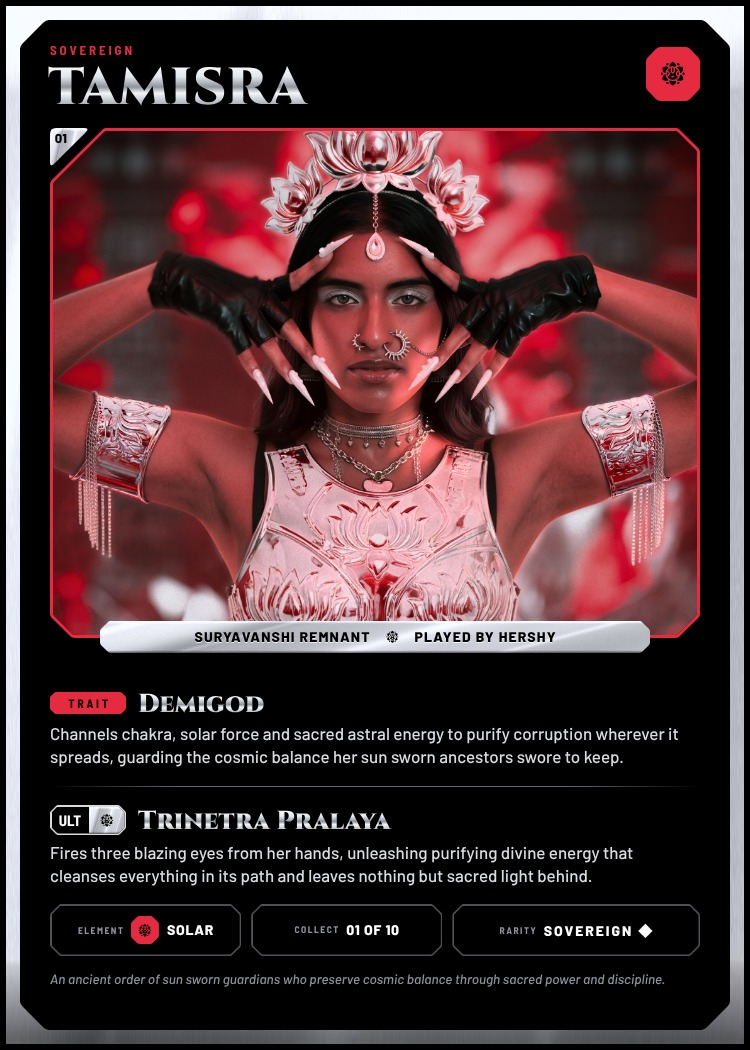
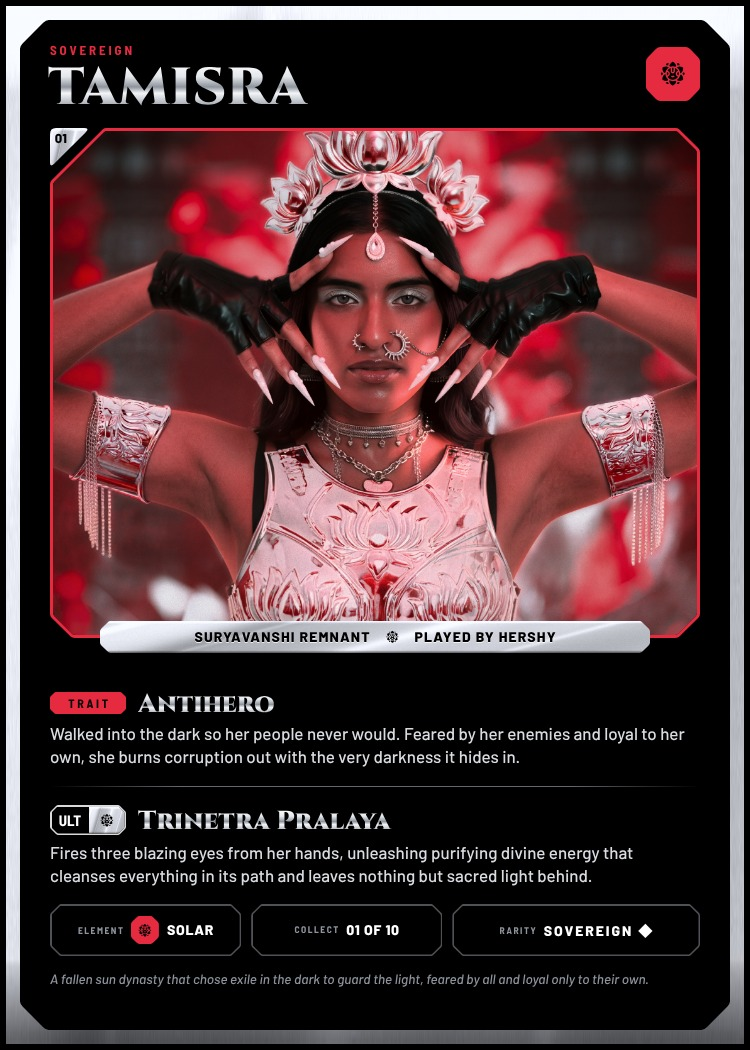
Tamisra: antihero lore, new card and spread images
Claude-Session: https://claude.ai/code/session_01XqBoTDZG36PsB1FtNjsWYS

Changed region(s): [[0.0613, 0.64, 0.92, 0.7314], [0.092, 0.9143, 0.8893, 0.9448]]

diff --git a/01/index.html b/01/index.html
@@ -27,7 +27,7 @@
   </div>
   <div style="position: absolute; left: 30px; bottom: 46px; width: 268px; display: flex; flex-direction: column; gap: 12px">
     <h1 style="margin: 0; font-family: 'Cinzel', serif; font-weight: 900; font-size: 34px; line-height: 1; letter-spacing: 0.02em; text-transform: uppercase; filter: drop-shadow(0 3px 10px rgba(0,0,0,0.9)); background: linear-gradient(180deg, #FFFFFF 0%, #E4E7EB 28%, #8E949D 48%, #F3F5F7 60%, #A9AEB6 82%, #FFFFFF 100%); -webkit-background-clip: text; background-clip: text; color: transparent">Tamisra</h1>
-    <p style="margin: 0; font-family: 'Barlow', sans-serif; font-weight: 700; font-size: 11px; line-height: 14px; color: #FFFFFF; text-shadow: 0 0 3px #000, 0 0 8px rgba(0,0,0,0.95), 0 1px 2px #000, 0 0 16px rgba(0,0,0,0.7)"><span style="background: url(assets/plate-h.jpg) center / 100% 100% no-repeat; color: #000000; font-weight: 800; text-shadow: 0 0.6px 0 rgba(255,255,255,0.75); -webkit-font-smoothing: antialiased; text-rendering: geometricPrecision; display: inline-block; line-height: 1.3; clip-path: polygon(0.00px 3.90px, 0.04px 3.47px, 0.16px 3.07px, 0.36px 2.70px, 0.64px 2.36px, 2.36px 0.64px, 2.70px 0.36px, 3.07px 0.16px, 3.47px 0.04px, 3.90px 0.00px, calc(100% - 3.90px) 0.00px, calc(100% - 3.47px) 0.04px, calc(100% - 3.07px) 0.16px, calc(100% - 2.70px) 0.36px, calc(100% - 2.36px) 0.64px, calc(100% - 0.64px) 2.36px, calc(100% - 0.36px) 2.70px, calc(100% - 0.16px) 3.07px, calc(100% - 0.04px) 3.47px, calc(100% - 0.00px) 3.90px, calc(100% - 0.00px) calc(100% - 3.90px), calc(100% - 0.04px) calc(100% - 3.47px), calc(100% - 0.16px) calc(100% - 3.07px), calc(100% - 0.36px) calc(100% - 2.70px), calc(100% - 0.64px) calc(100% - 2.36px), calc(100% - 2.36px) calc(100% - 0.64px), calc(100% - 2.70px) calc(100% - 0.36px), calc(100% - 3.07px) calc(100% - 0.16px), calc(100% - 3.47px) calc(100% - 0.04px), calc(100% - 3.90px) calc(100% - 0.00px), 3.90px calc(100% - 0.00px), 3.47px calc(100% - 0.04px), 3.07px calc(100% - 0.16px), 2.70px calc(100% - 0.36px), 2.36px calc(100% - 0.64px), 0.64px calc(100% - 2.36px), 0.36px calc(100% - 2.70px), 0.16px calc(100% - 3.07px), 0.04px calc(100% - 3.47px), 0.00px calc(100% - 3.90px)); padding: 0 5px; margin: 0 1px">Suryavanshi Remnant,</span> an ancient order of sun sworn guardians who preserve cosmic balance through sacred power and discipline.</p>
+    <p style="margin: 0; font-family: 'Barlow', sans-serif; font-weight: 700; font-size: 11px; line-height: 14px; color: #FFFFFF; text-shadow: 0 0 3px #000, 0 0 8px rgba(0,0,0,0.95), 0 1px 2px #000, 0 0 16px rgba(0,0,0,0.7)"><span style="background: url(assets/plate-h.jpg) center / 100% 100% no-repeat; color: #000000; font-weight: 800; text-shadow: 0 0.6px 0 rgba(255,255,255,0.75); -webkit-font-smoothing: antialiased; text-rendering: geometricPrecision; display: inline-block; line-height: 1.3; clip-path: polygon(0.00px 3.90px, 0.04px 3.47px, 0.16px 3.07px, 0.36px 2.70px, 0.64px 2.36px, 2.36px 0.64px, 2.70px 0.36px, 3.07px 0.16px, 3.47px 0.04px, 3.90px 0.00px, calc(100% - 3.90px) 0.00px, calc(100% - 3.47px) 0.04px, calc(100% - 3.07px) 0.16px, calc(100% - 2.70px) 0.36px, calc(100% - 2.36px) 0.64px, calc(100% - 0.64px) 2.36px, calc(100% - 0.36px) 2.70px, calc(100% - 0.16px) 3.07px, calc(100% - 0.04px) 3.47px, calc(100% - 0.00px) 3.90px, calc(100% - 0.00px) calc(100% - 3.90px), calc(100% - 0.04px) calc(100% - 3.47px), calc(100% - 0.16px) calc(100% - 3.07px), calc(100% - 0.36px) calc(100% - 2.70px), calc(100% - 0.64px) calc(100% - 2.36px), calc(100% - 2.36px) calc(100% - 0.64px), calc(100% - 2.70px) calc(100% - 0.36px), calc(100% - 3.07px) calc(100% - 0.16px), calc(100% - 3.47px) calc(100% - 0.04px), calc(100% - 3.90px) calc(100% - 0.00px), 3.90px calc(100% - 0.00px), 3.47px calc(100% - 0.04px), 3.07px calc(100% - 0.16px), 2.70px calc(100% - 0.36px), 2.36px calc(100% - 0.64px), 0.64px calc(100% - 2.36px), 0.36px calc(100% - 2.70px), 0.16px calc(100% - 3.07px), 0.04px calc(100% - 3.47px), 0.00px calc(100% - 3.90px)); padding: 0 5px; margin: 0 1px">Suryavanshi Remnant,</span> a fallen sun dynasty that chose exile in the dark to guard the light, feared by all and loyal only to their own.</p>
     <div style="display: flex; flex-direction: row; align-items: center; gap: 10px">
       <div style="flex: none; padding: 1px; background: rgba(255,255,255,0.85); clip-path: path('M 1.41 4.70 L 4.70 1.41 Q 6.11 0.00 8.11 0.00 L 85.89 0.00 Q 87.89 0.00 89.30 1.41 L 92.59 4.70 Q 94.00 6.11 94.00 8.11 L 94.00 20.89 Q 94.00 22.89 92.59 24.30 L 89.30 27.59 Q 87.89 29.00 85.89 29.00 L 8.11 29.00 Q 6.11 29.00 4.70 27.59 L 1.41 24.30 Q 0.00 22.89 0.00 20.89 L 0.00 8.11 Q 0.00 6.11 1.41 4.70 Z')"><div style="display: flex; flex-direction: row; align-items: stretch; width: 92px; height: 27px; overflow: hidden; background: #000000; clip-path: path('M 1.41 4.29 L 4.29 1.41 Q 5.70 0.00 7.70 0.00 L 84.30 0.00 Q 86.30 0.00 87.71 1.41 L 90.59 4.29 Q 92.00 5.70 92.00 7.70 L 92.00 19.30 Q 92.00 21.30 90.59 22.71 L 87.71 25.59 Q 86.30 27.00 84.30 27.00 L 7.70 27.00 Q 5.70 27.00 4.29 25.59 L 1.41 22.71 Q 0.00 21.30 0.00 19.30 L 0.00 7.70 Q 0.00 5.70 1.41 4.29 Z')">
         <span style="width: 46px; text-align: center; font-family: 'Barlow Semi Condensed', sans-serif; font-weight: 700; font-size: 16.5px; line-height: 27px; color: #FFFFFF">ULT</span>
